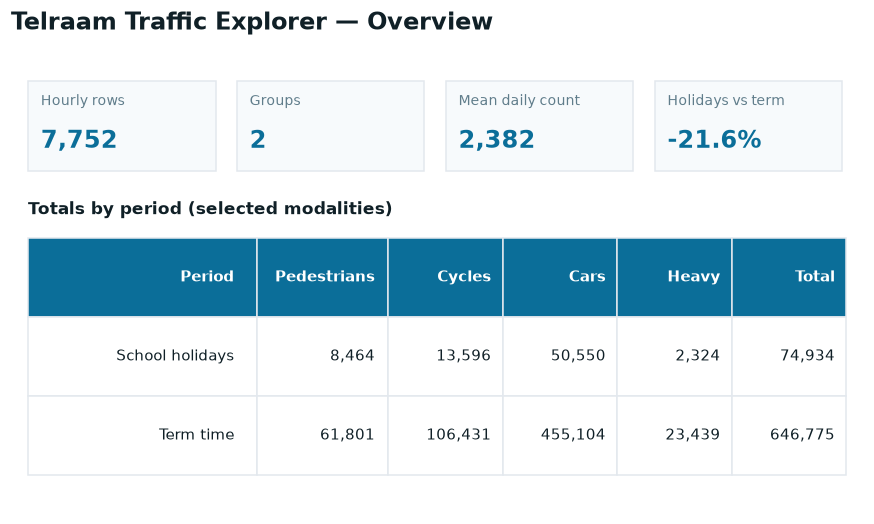
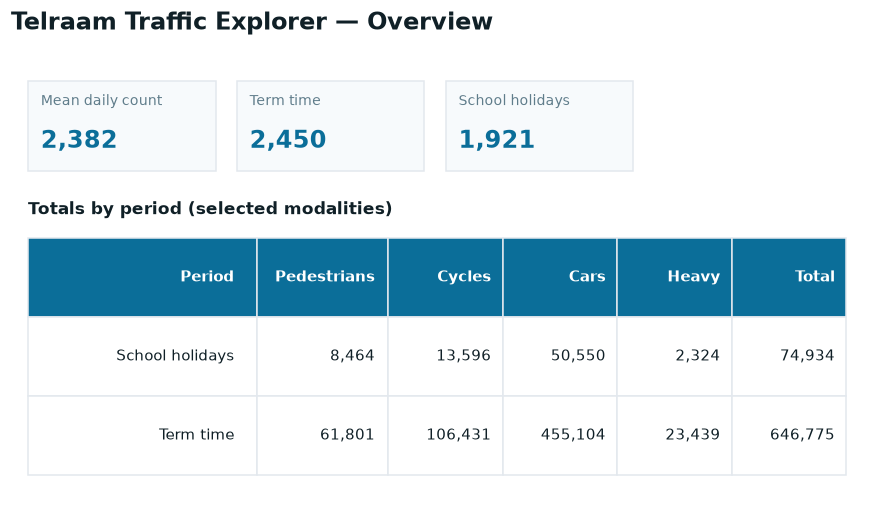
Use consistent modality labels and tidy the period summary
Charts labelled modes as Bike/Heavy while the sidebar said Cycles/Heavy
vehicles; route all chart labels through modality_label. Drop the redundant
Type column from the period table and show a year span for aggregated rows
instead of a blank.

diff --git a/scripts/render_previews.py b/scripts/render_previews.py
@@ -64,6 +64,7 @@ from domain.models import (  # noqa: E402
     ComparisonConfig,
     ComparisonMode,
     Exclusion,
+    modality_label,
 )
 
 plt.rcParams.update(
@@ -250,11 +251,6 @@ def render_overview(out_dir: Path, dpi: int):
     assigned = keep_assigned(label_periods(FRAME, holiday_vs_term(CAL)))
     totals = compute_period_totals(assigned, MODALITIES)
     mean_daily = period_mean_daily(assigned, MODALITIES)
-    delta = (
-        (mean_daily["School holidays"] - mean_daily["Term time"])
-        / mean_daily["Term time"]
-        * 100
-    )
     overall = compute_daily_totals(assigned, MODALITIES)[MODALITIES].sum(axis=1).mean()
 
     fig, ax = plt.subplots(figsize=(10, 5.6))
@@ -263,10 +259,9 @@ def render_overview(out_dir: Path, dpi: int):
                  fontsize=16, fontweight="bold")
 
     kpis = [
-        ("Hourly rows", f"{len(FRAME):,}"),
-        ("Groups", "2"),
         ("Mean daily count", f"{overall:,.0f}"),
-        ("Holidays vs term", f"{delta:+.1f}%"),
+        ("Term time", f"{mean_daily['Term time']:,.0f}"),
+        ("School holidays", f"{mean_daily['School holidays']:,.0f}"),
     ]
     for i, (label, value) in enumerate(kpis):
         x = 0.02 + i * 0.245
@@ -391,7 +386,7 @@ def render_compare(out_dir: Path, dpi: int):
                    color=PERIOD_COLOURS[j % len(PERIOD_COLOURS)])
         ax.set_xticks(x)
         ax.set_xticklabels(WEEKDAY_LABELS)
-        titled(ax, f"{modality.title()} by weekday")
+        titled(ax, f"{modality_label(modality)} by weekday")
         ax.legend(frameon=False)
 
     for i, group in enumerate(groups[:2]):
@@ -446,14 +441,14 @@ def render_detail(out_dir: Path, dpi: int):
     ax1.axis("off")
     titled(ax1, "Periods")
     periods = describe_instances(instances)
-    rows = [["Period", "Type", "Year", "Start", "End", "Days"]]
+    rows = [["Period", "Year", "Start", "End", "Days"]]
     for _, r in periods.iterrows():
         rows.append([
-            r.Period, r.Type, r.Year or "", str(r.Start), str(r.End), int(r.Days),
+            r.Period, r.Year or "", str(r.Start), str(r.End), int(r.Days),
         ])
     styled_table(
         ax1, rows, [0.0, 0.06, 1.0, 0.62],
-        [0.22, 0.22, 0.12, 0.16, 0.16, 0.1],
+        [0.32, 0.16, 0.18, 0.18, 0.12],
     )
 
     ax2 = fig.add_subplot(gs[1])

diff --git a/analysis/comparisons.py b/analysis/comparisons.py
@@ -195,16 +195,32 @@ def resolve(
 # ---------------------------------------------------------------------------
 
 def describe_instances(instances: list[PeriodInstance]) -> pd.DataFrame:
-    """Tabular summary of a set of periods, for display."""
+    """Tabular summary of a set of periods, for display.
+
+    The type is omitted because it repeats the label for aggregated periods
+    (a "Term time" period is of type "Term time"). Aggregated periods carry no
+    academic year, so fall back to the calendar-year span they cover rather
+    than showing a blank.
+    """
     rows = []
     for inst in instances:
+        start, end = inst.start, inst.end
+        if inst.academic_year:
+            year = inst.academic_year
+        elif start is not None and end is not None:
+            year = (
+                str(start.year)
+                if start.year == end.year
+                else f"{start.year}–{end.year}"
+            )
+        else:
+            year = ""
         rows.append(
             {
                 "Period": inst.label,
-                "Type": inst.kind.human,
-                "Year": inst.academic_year or "",
-                "Start": inst.start,
-                "End": inst.end,
+                "Year": year,
+                "Start": start,
+                "End": end,
                 "Days": inst.n_days,
             }
         )

diff --git a/charts/hourly.py b/charts/hourly.py
@@ -6,6 +6,7 @@ import pandas as pd
 import plotly.graph_objects as go
 
 from charts.theme import legend_below, modality_colour, period_colour_map
+from domain.models import modality_label
 
 _DASH_STYLES = ["solid", "dash", "dot", "dashdot", "longdash", "longdashdot"]
 _MARKER_SYMBOLS = ["circle", "square", "diamond", "cross", "x", "triangle-up"]
@@ -31,6 +32,7 @@ def plot_hourly_profile(
     for mi, modality in enumerate(modalities):
         dash = _DASH_STYLES[mi % len(_DASH_STYLES)]
         marker = _MARKER_SYMBOLS[mi % len(_MARKER_SYMBOLS)]
+        label = modality_label(modality)
         for group in groups:
             subset = profile_df[profile_df[group_col] == group]
             colour = (
@@ -41,10 +43,10 @@ def plot_hourly_profile(
                     x=subset["hour"],
                     y=subset[modality],
                     mode="lines+markers",
-                    name=f"{group} — {modality}",
+                    name=f"{group} — {label}",
                     line=dict(color=colour, dash=dash, width=2),
                     marker=dict(symbol=marker, size=6),
-                    legendgroup=f"{group} — {modality}",
+                    legendgroup=f"{group} — {label}",
                 )
             )
 

diff --git a/charts/modal.py b/charts/modal.py
@@ -6,6 +6,7 @@ import pandas as pd
 import plotly.graph_objects as go
 
 from charts.theme import legend_below, period_colour_map
+from domain.models import modality_label
 
 
 def plot_modal_split(
@@ -28,7 +29,7 @@ def plot_modal_split(
         row = split_df[split_df[group_col] == group].iloc[0]
         fig.add_trace(
             go.Bar(
-                x=modalities,
+                x=[modality_label(m) for m in modalities],
                 y=[row[m] for m in modalities],
                 name=group,
                 marker_color=colours[group],

diff --git a/charts/weekday.py b/charts/weekday.py
@@ -7,6 +7,7 @@ import plotly.graph_objects as go
 
 from analysis.align import WEEKDAY_LABELS
 from charts.theme import legend_below, period_colour_map
+from domain.models import modality_label
 
 
 def plot_weekday_comparison(
@@ -41,7 +42,7 @@ def plot_weekday_comparison(
         )
 
     fig.update_layout(
-        title=f"{modality.title()} by weekday",
+        title=f"{modality_label(modality)} by weekday",
         barmode="group",
         yaxis_title=value_label,
         xaxis_title="Weekday",

diff --git a/ui/components.py b/ui/components.py
@@ -139,7 +139,7 @@ def _resolve_modality(df, modalities, choice):
         columns = dedupe_modalities(list(modalities))
         frame["total"] = frame[columns].sum(axis=1)
         return frame, "total", "all selected modalities"
-    return df, choice, choice
+    return df, choice, modality_label(choice)
 
 
 def _ordered_groups(df, group_col: str) -> list[str]:
